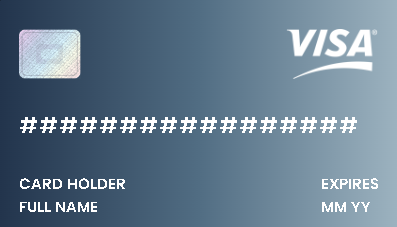
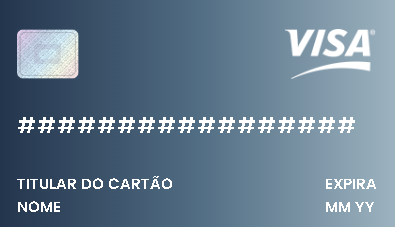
closenone

diff --git a/finovacartoes.html b/finovacartoes.html
@@ -37,7 +37,7 @@
                   <span class="txt-link" id="h">Home</span>
                 </a>
               </li>
-              <li class="item-menu">
+              <li class="item-menu" >
                 <a href="finovadashboard.html">
                   <span class="icon"><i class='bx bxs-dashboard'></i></span>
                   <span class="txt-link">Dashboard</span>
@@ -224,11 +224,11 @@
                         <div class="card-number-box">#################</div>
                         <div class="flexbox">
                             <div class="box">
-                                <span>card holder</span>
-                                <div class="card-holder-name">full name</div>
+                                <span>titular do cartão</span>
+                                <div class="card-holder-name">nome</div>
                             </div>
                             <div class="box">
-                                <span>expires</span>
+                                <span>expira</span>
                                 <div class="expiration">
                                     <span class="exp-month">mm</span>
                                     <span class="exp-year">yy</span>
@@ -247,17 +247,16 @@
                 </div>
                 <form action="">
                     <div class="inputBox">
-                        <button class="fechar" id="fechar"><i class='bx bxs-x-square'></i></button>
-                        <span>card number</span>
+                        <span>numero do cartão</span>
                         <input type="text" maxlength="16" class="card-number-input">
                     </div>
                     <div class="inputBox">
-                        <span>card holder</span>
+                        <span>titular do cartão</span>
                         <input type="text" maxlength="16" class="card-holder-input">
                     </div>
                     <div class="flexbox">
                         <div class="inputBox">
-                            <span>expiration mm</span>
+                            <span>expiração mm</span>
                             <select name="" id="" class="month-input">
                                 <option value="month" selected disabled></option>
                                 <option value="01">01</option>
@@ -275,7 +274,7 @@
                             </select>
                         </div>
                         <div class="inputBox">
-                            <span>expiration yy</span>
+                            <span>expiração yy</span>
                             <select name="" id="" class="year-input">
                                 <option value="year" selected disabled></option>
                                 <option value="2023">2023</option>
@@ -296,7 +295,7 @@
                             <input type="text" maxlength="4" class="cvv-input">
                         </div>
                     </div>
-                    <input type="submit" value="submit" class="submit-btn">
+                    <input type="submit" value="Cadastrar" class="submit-btn">
                 </form>
             </div>
         </div>

diff --git a/finovacartoes.css b/finovacartoes.css
@@ -86,8 +86,7 @@ header {
 .card{
   border-radius: 25px;
   background-color: #9db3c0;
-}
-
+  }
 
 .image-content,
 .card-content {
@@ -216,15 +215,6 @@ header {
   flex-flow: column;
   margin-top: 10px;
   padding-bottom: 0px; 
-}
-
-.fechar i {
-  position: fixed;
-  right: 410px;
-  top: 170px;
-  font-size: 35px;
-  color: #516d83;
-  cursor: pointer;
 }
 
 .credit form {
@@ -503,7 +493,7 @@ header {
   }
   
   
-  @media (max-width: 391px) {
+  @media (max-width: 416px) {
     .slide-container h1 {
       font-size: 36px;
     }

diff --git a/finovacartoes.js b/finovacartoes.js
@@ -75,3 +75,4 @@ modall.addEventListener('click', (e) => {
 })
 }
 
+
